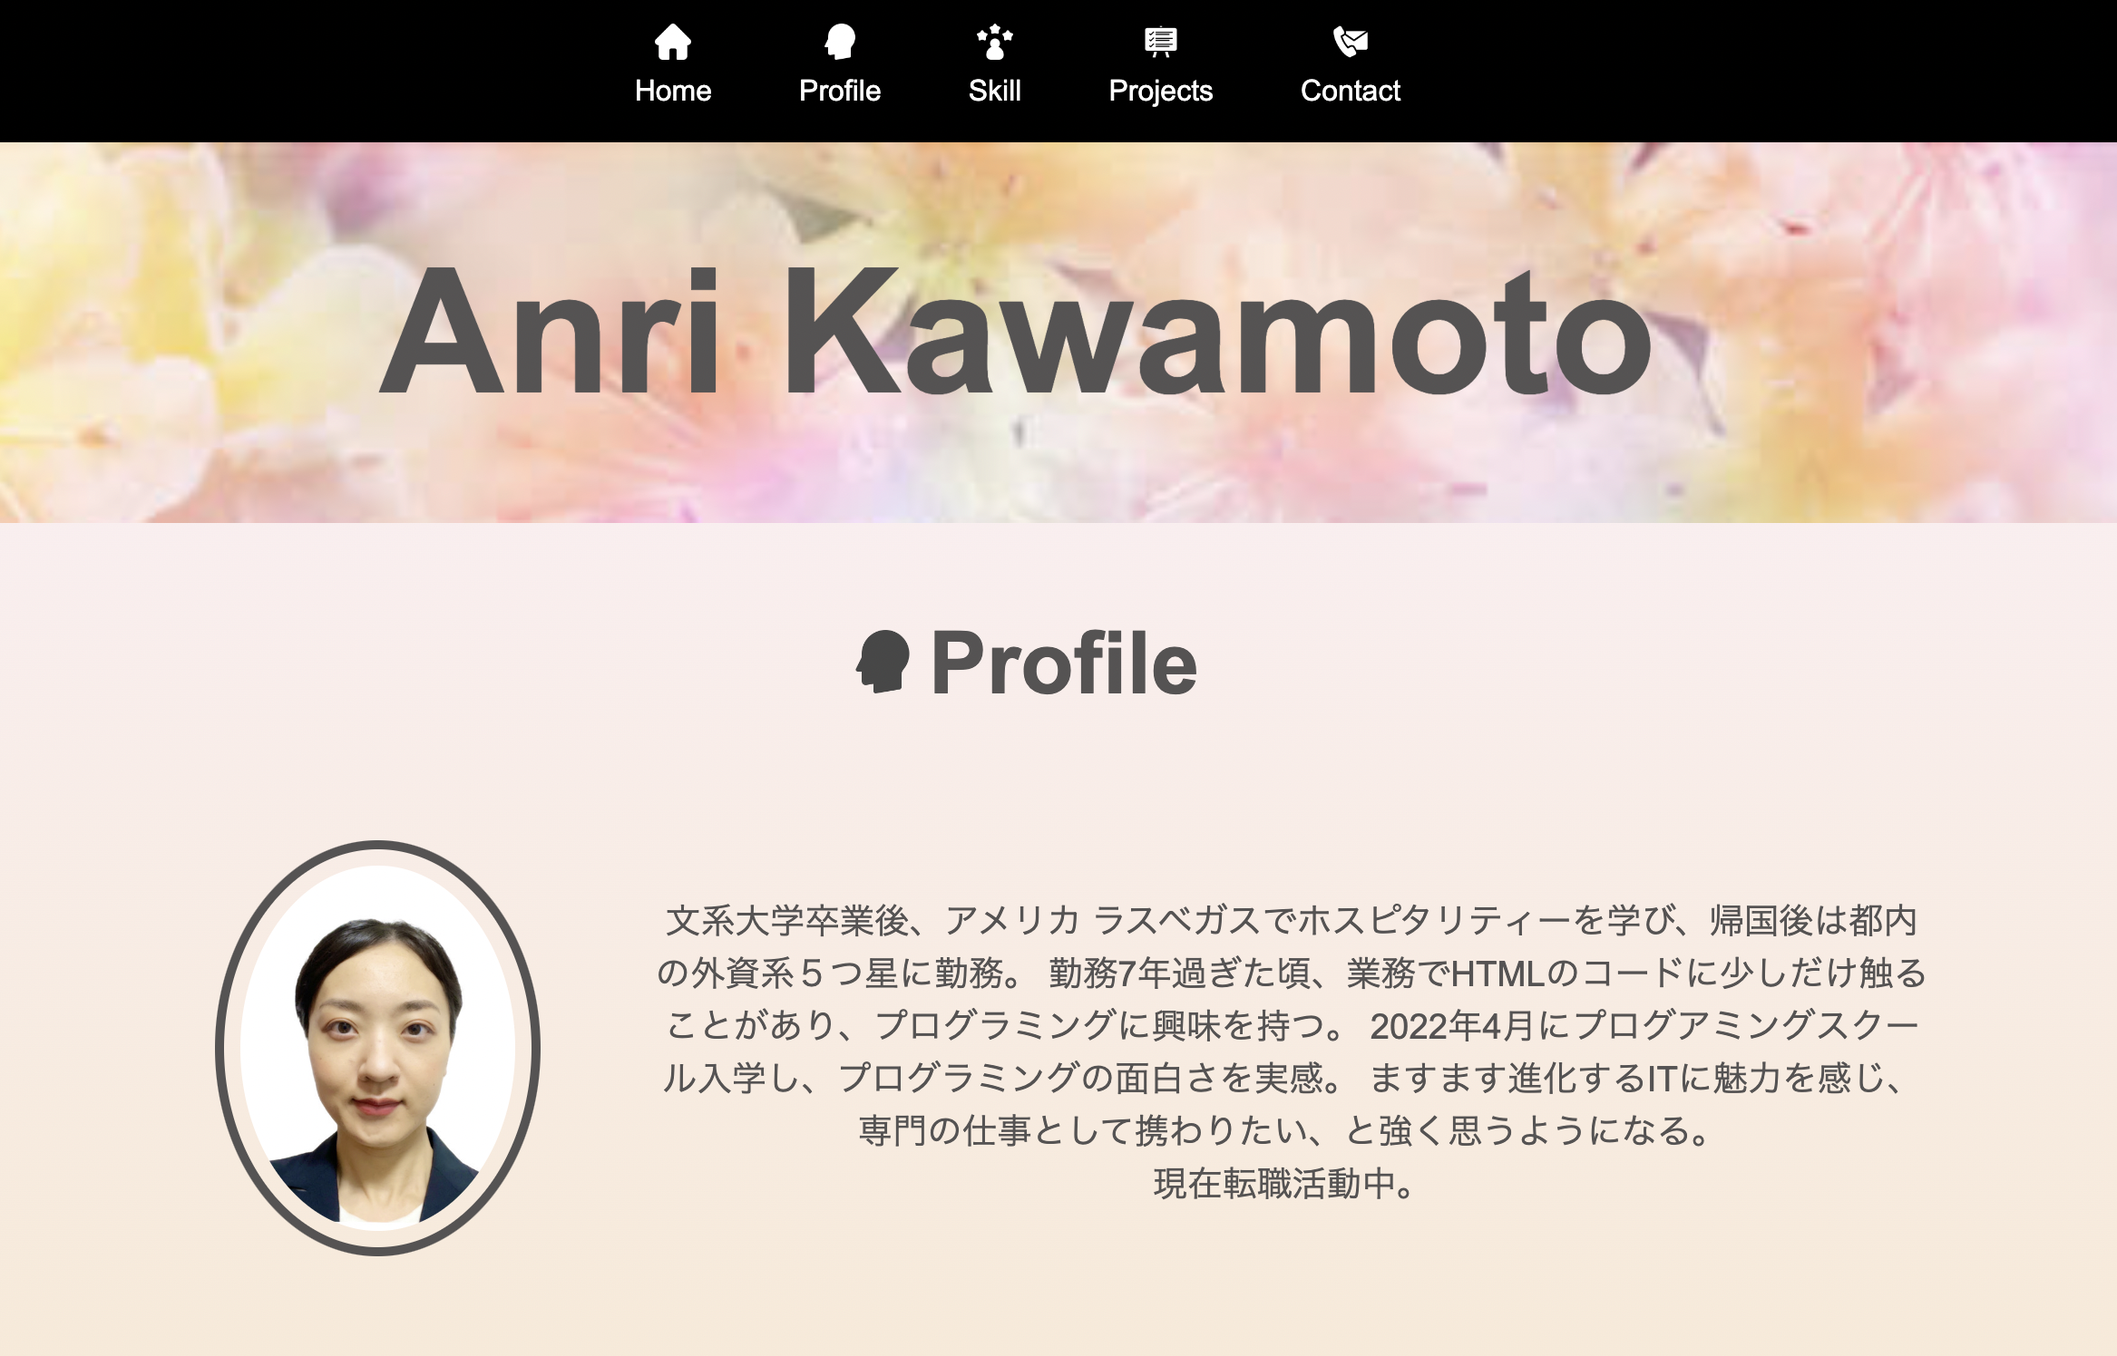
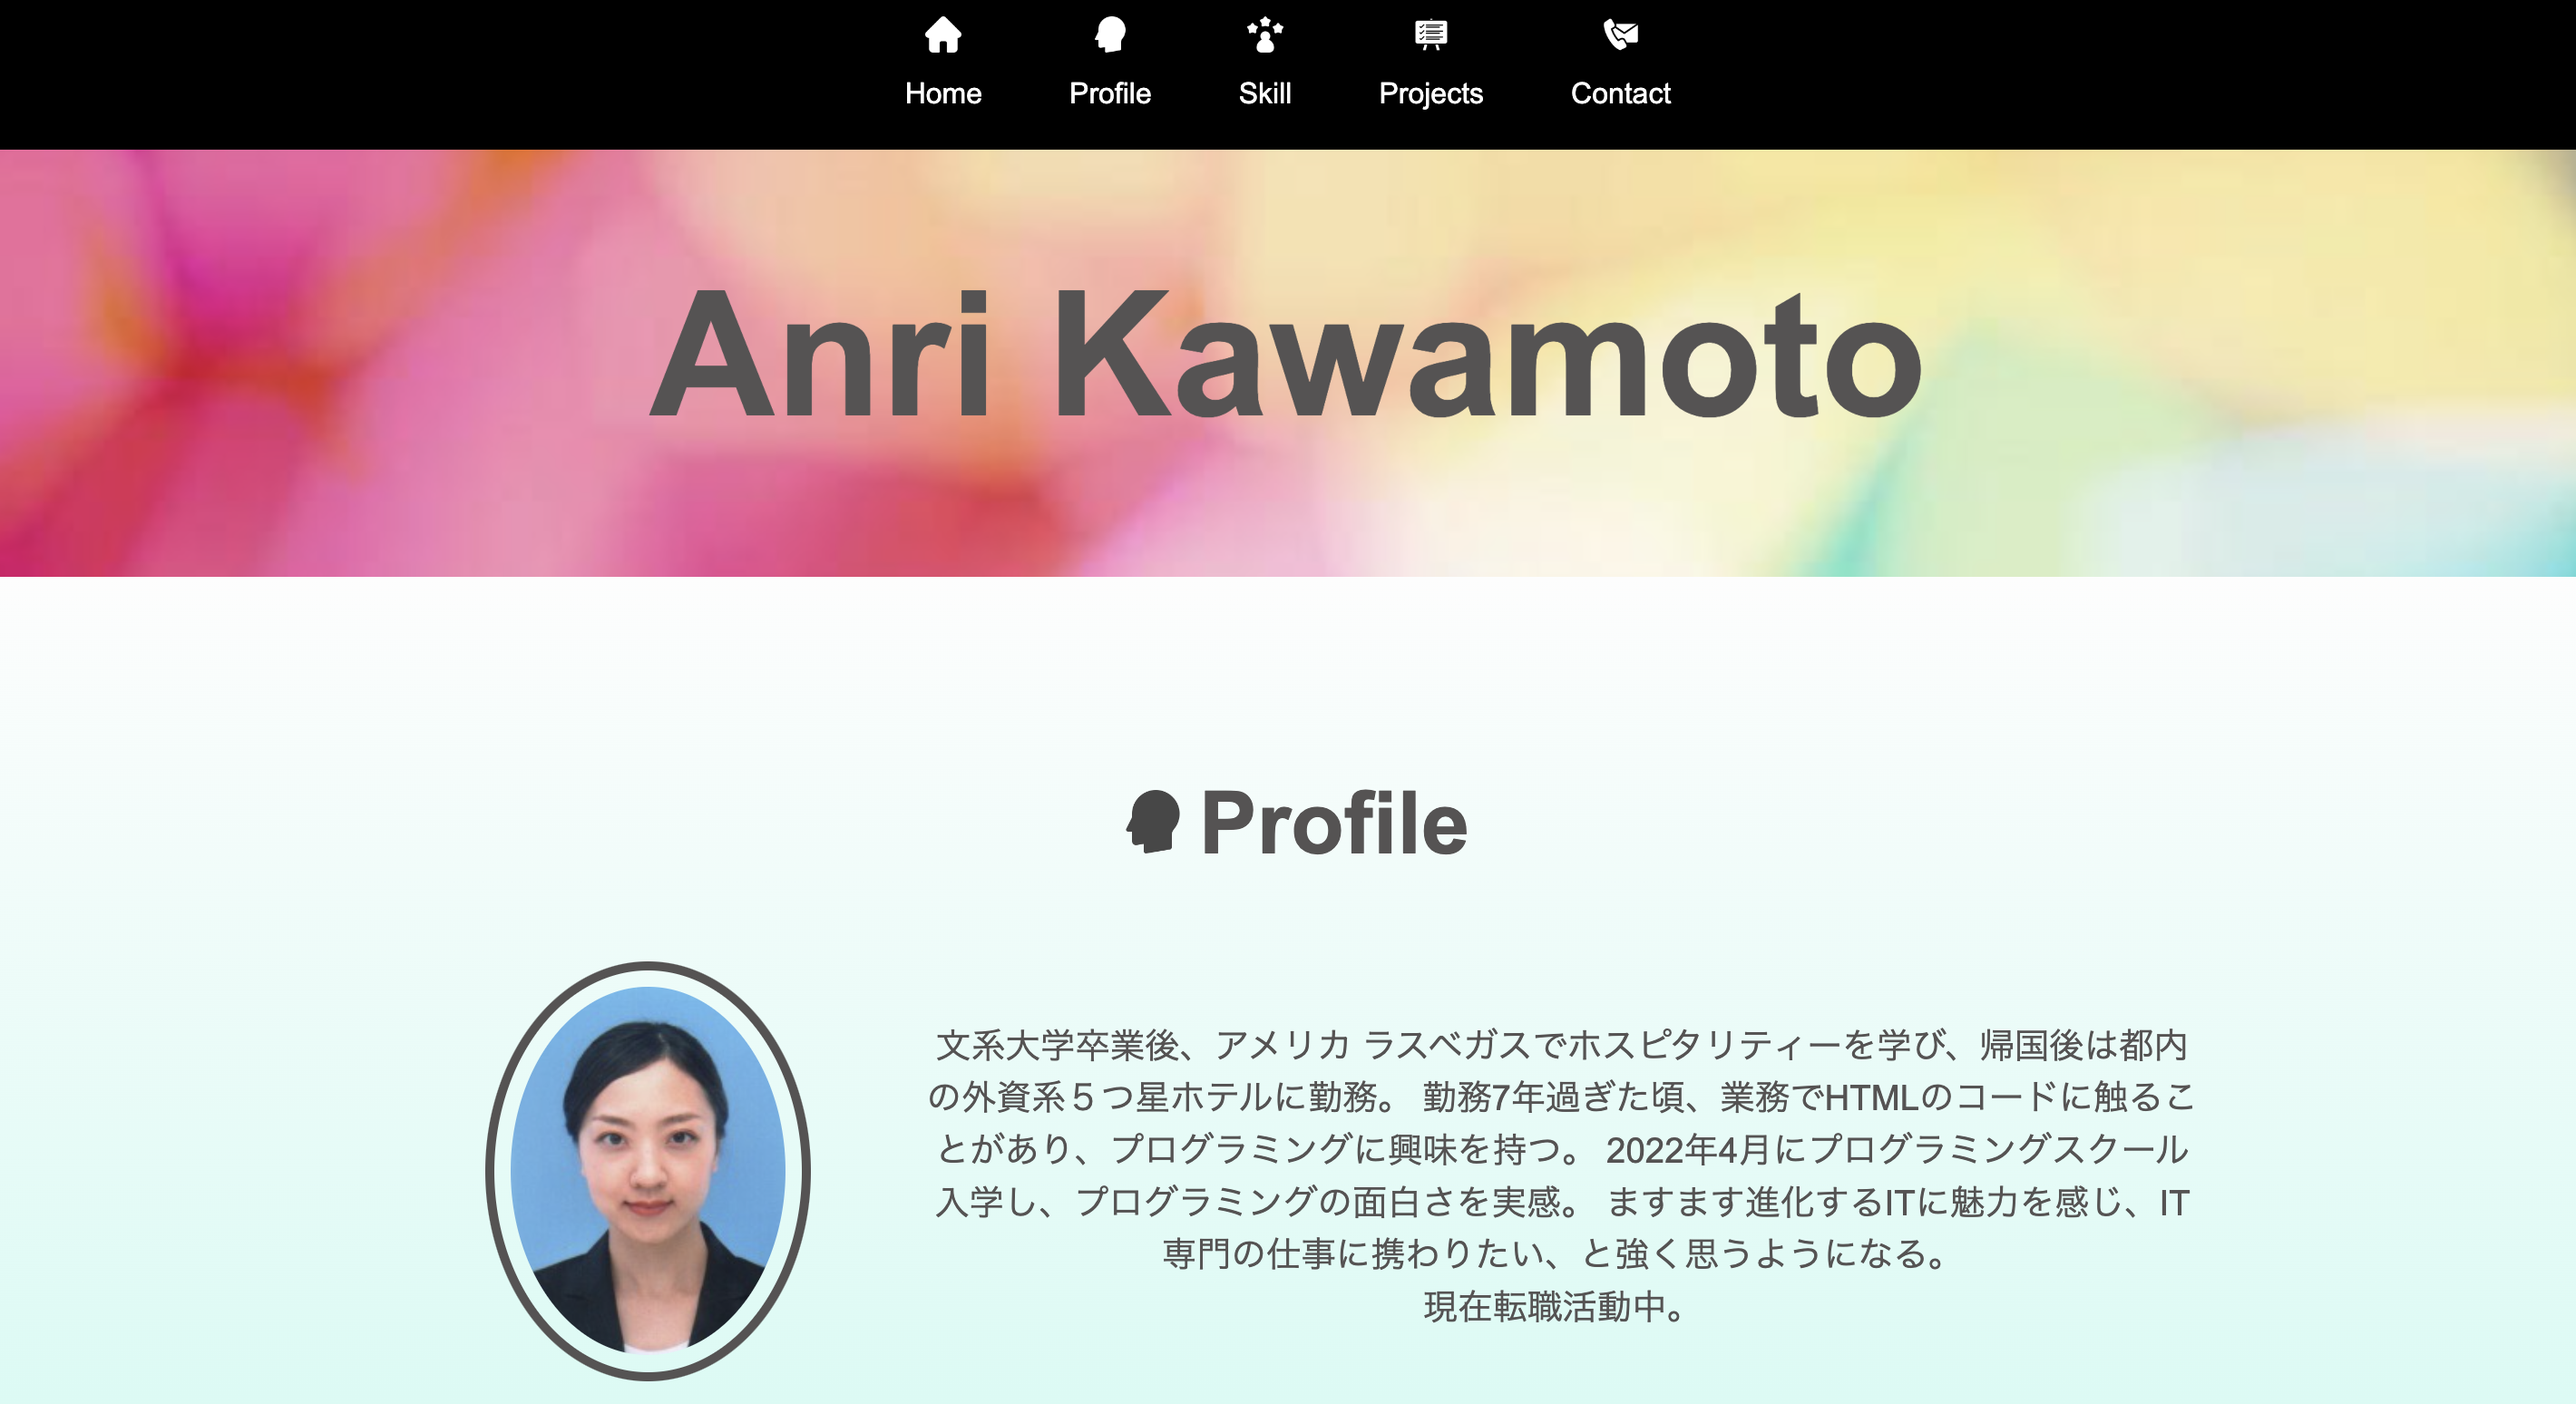
topへ戻るボタン追加、hover時のメニュー下線の追加、画像変更

diff --git a/index.html b/index.html
@@ -6,25 +6,26 @@
     <meta name="viewport" content="width=device-width, initial-scale=1.0">
     <title>Portfolio | Anri Kawamoto</title>
     <link rel="stylesheet" href="style.css">
+    <script src="https://ajax.googleapis.com/ajax/libs/jquery/3.4.1/jquery.min.js"></script>
 </head>
 <body>
     <header>
         <nav>
             <ul>
                 <li><a href="index.html"><img src="img/home.png" alt="Home">
-                    <p>Home</p>
+                    <p id="nav-link">Home</p>
                 </a></li>
                 <li><a href="#profile"><img src="img/profile.png" alt="Profile">
-                    <p>Profile</p>
+                    <p id="nav-link">Profile</p>
                 </a></li>
                 <li><a href="#skill"><img src="img/skill.png" alt="Skill">
-                    <p>Skill</p>
+                    <p id="nav-link">Skill</p>
                 </a></li>
                 <li><a href="#projects"><img src="img/projects.png" alt="Projects">
-                    <p>Projects</p>
+                    <p id="nav-link">Projects</p>
                 </a></li>
                 <li><a href="#contact"><img src="img/contact.png" alt="Contact">
-                    <p>Contact</p>
+                    <p id="nav-link">Contact</p>
                 </a></li>
             </ul>
         </nav>
@@ -60,7 +61,7 @@
                         <a href="" target="_blank"><img src="img/portfolio.png" alt="ポートフォリオ"></a>
                         <h3>ポートフォリオ</h3>
                         <p>私のポートフォリオです。</p>
-                        <p>HTML / CSS</p>
+                        <p>HTML / CSS / JQuery</p>
                         <div class="project-links">
                             <p class="project-link"><a href="" target="_blank">Website</a></p>
                             <p class="project-link"><a href="https://github.com/anrikawamoto/portfolio2022.git" target="_blank">GitHub</a></p>
@@ -103,25 +104,26 @@
                 </div>
             </section>
         </div>
+        <div id="page_top"><a href="#">Top</a></div>
     </main>
 
     <footer>        
         <div class="footer-link">
             <ul>
                 <li><a href="index.html">
-                    <p>Home</p>
+                    <p id="nav-link">Home</p>
                 </a></li>
                 <li><a href="#profile">
-                    <p>Profile</p>
+                    <p id="nav-link">Profile</p>
                 </a></li>
                 <li><a href="#skill">
-                    <p>Skill</p>
+                    <p id="nav-link">Skill</p>
                 </a></li>
                 <li><a href="#projects">
-                    <p>Projects</p>
+                    <p id="nav-link">Projects</p>
                 </a></li>
                 <li><a href="#contact">
-                    <p>Contact</p>
+                    <p id="nav-link">Contact</p>
                 </a></li>
             </ul>
         </div>
@@ -129,6 +131,9 @@
             <p>© Anri Kawamoto All rights reserved</p>
         </div>
     </footer>
+
+<!-- jQueryの読み込み -->
+<script src="script.js"></script>
 
 </body>
 </html>

diff --git a/style.css b/style.css
@@ -13,7 +13,7 @@ h1 {
     font-size:6rem;
     margin: 80px 0 0 0;
     padding: 50px;
-    background-image:url("img/background8.jpeg");
+    background-image:url("img/background.jpeg");
     background-size: 100%;
 }
 
@@ -40,6 +40,7 @@ nav {
     top: 0;
     width:100%;
     background-color: black;
+    z-index: 1;
 }
 
 nav ul {
@@ -65,6 +66,28 @@ nav ul li p {
 }
 
 
+#nav-link {
+    position: relative;
+    text-decoration: none;
+}
+
+#nav-link::after {
+    position: absolute;
+    bottom: -5px;
+    left: 0;
+    content: '';
+    width: 100%;
+    height: 3px;
+    background: #f0286e;
+    transform: scale(0, 1);
+    transform-origin: center top;
+    transition: transform .3s;
+}
+
+#nav-link:hover::after {
+    transform: scale(1, 1);
+}
+
 h2 img{
     width :auto;
     height:35px;
@@ -79,14 +102,14 @@ main {
 }
 
 .main-view {
-    background: linear-gradient( rgb(251, 238, 239), rgb(247, 230, 199), rgb(251, 238, 239));
+    background: linear-gradient( rgb(253, 253, 253), rgb(166, 249, 234), rgb(253, 253, 253));
     width:100%;
 }
 
 .profile-cards {
     display:flex;
     width: 70%;
-    margin: 70px 15% 20px;
+    margin: 30px 15%;
 }
 
 .profile-img {
@@ -112,7 +135,7 @@ main {
 #skill p {
     width: 60%;
     font-size: 1.5rem;
-    border-bottom: 7px solid #f06128;
+    border-bottom: 7px solid #f0286e;
     padding: 10px;
     margin: 0 20%;
     background-color: white;
@@ -128,11 +151,11 @@ main {
 .project-card {
     width:30%;
     background-color: white;
-    border-bottom: 7px solid #f06128;
+    border-bottom: 7px solid #f0286e;
     padding: 30px 10px;
 }
 
-.project-card img{
+.project-card img {
     width:90%;
     padding:25px 5%;
 }
@@ -161,7 +184,7 @@ main {
 .contact-card {
     width:40%;
     background-color: white;
-    border-bottom: 7px solid #f06128;
+    border-bottom: 7px solid #f0286e;
     padding:30px 0;
 }
 
@@ -177,24 +200,50 @@ footer p {
 }
 
 .footer-link {
-    width:40%;
-    margin:0 30%;
+    width:30%;
+    margin:0 35%;
 }
 
 .footer-link ul {
     margin:0;
     padding: 0;
     display: flex;
-    justify-content: space-between;
+    justify-content: space-evenly;
 }
 
 .footer-link ul li {
-    margin:10px 10px;
+    margin:15px 20px;
     list-style: none;  
 }
 
 .copyright p {
     font-size: small;
+}
+
+#page_top {
+    display: none;
+    position: fixed;
+    bottom: 160px;
+    right: 20px;
+    font-size: 1rem;
+    padding: 0;
+}
+
+#page_top a {
+    background-color: rgb(253, 48, 236);
+    color: #fff;
+    text-align: center;
+    text-decoration: none;
+    padding: 1.2rem 1rem;
+    border-radius: 50%;
+    opacity: .5;
+    width: 60px;
+}
+
+#page_top a:hover {
+    background-color: rgb(253, 48, 236);
+    text-decoration: none;
+    opacity: .8;
 }
 
 
@@ -204,6 +253,10 @@ footer p {
         width:100vh;
         margin:0;
         padding:0;
+    }
+
+    h1 {
+        padding: 20px;
     }
 
     .profile-cards {

diff --git a/script.js b/script.js
@@ -1,0 +1,15 @@
+$(function () {
+    var pagetop = $('#page_top');
+    $(window).scroll(function () {
+    if ($(this).scrollTop() > 100) {
+        pagetop.fadeIn();
+    } else {
+        pagetop.fadeOut();
+    }
+    });
+
+    pagetop.click(function () {
+    $('body, html').animate({ scrollTop: 0 }, 300);
+    return false;
+    });
+});
